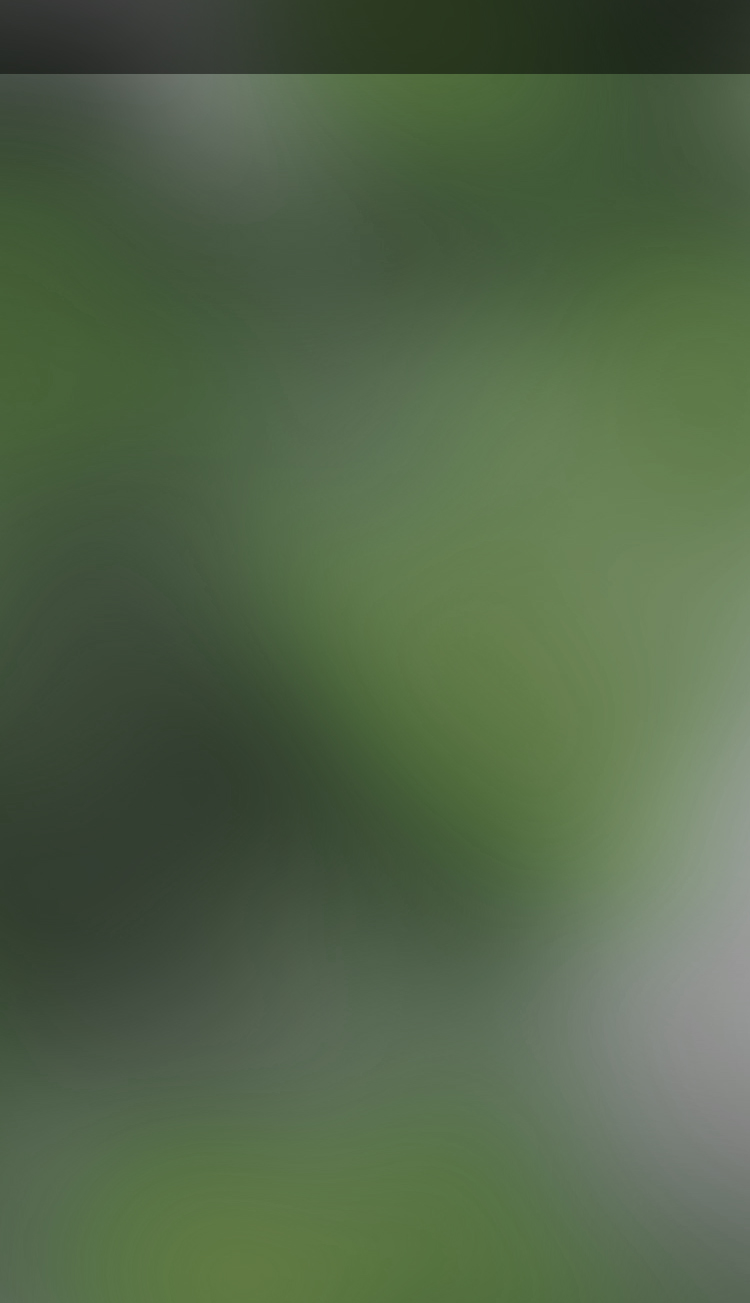
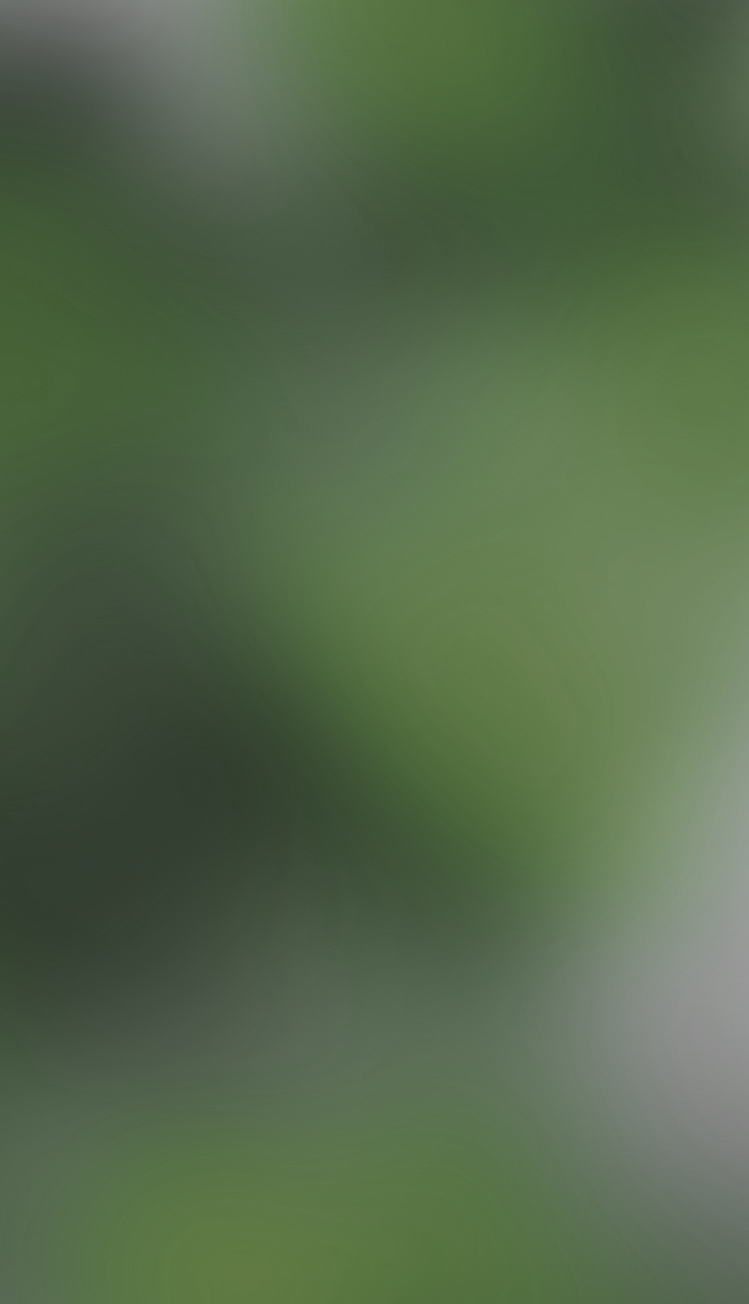
Background image is changed. bg4.jpg is deleted. slide-bg.jpg is replaced.

Changed region(s): [[0.0, 0.0, 1.0, 0.0614]]

diff --git a/css/recuerda-style.css b/css/recuerda-style.css
@@ -1,5 +1,5 @@
 ion-nav-view, .pane {
-    background:url(../img/bg4.jpg) no-repeat center top fixed !important;
+    background:url(../img/slide-bg.jpg) no-repeat center top fixed !important;
 }
 
 .menu {
